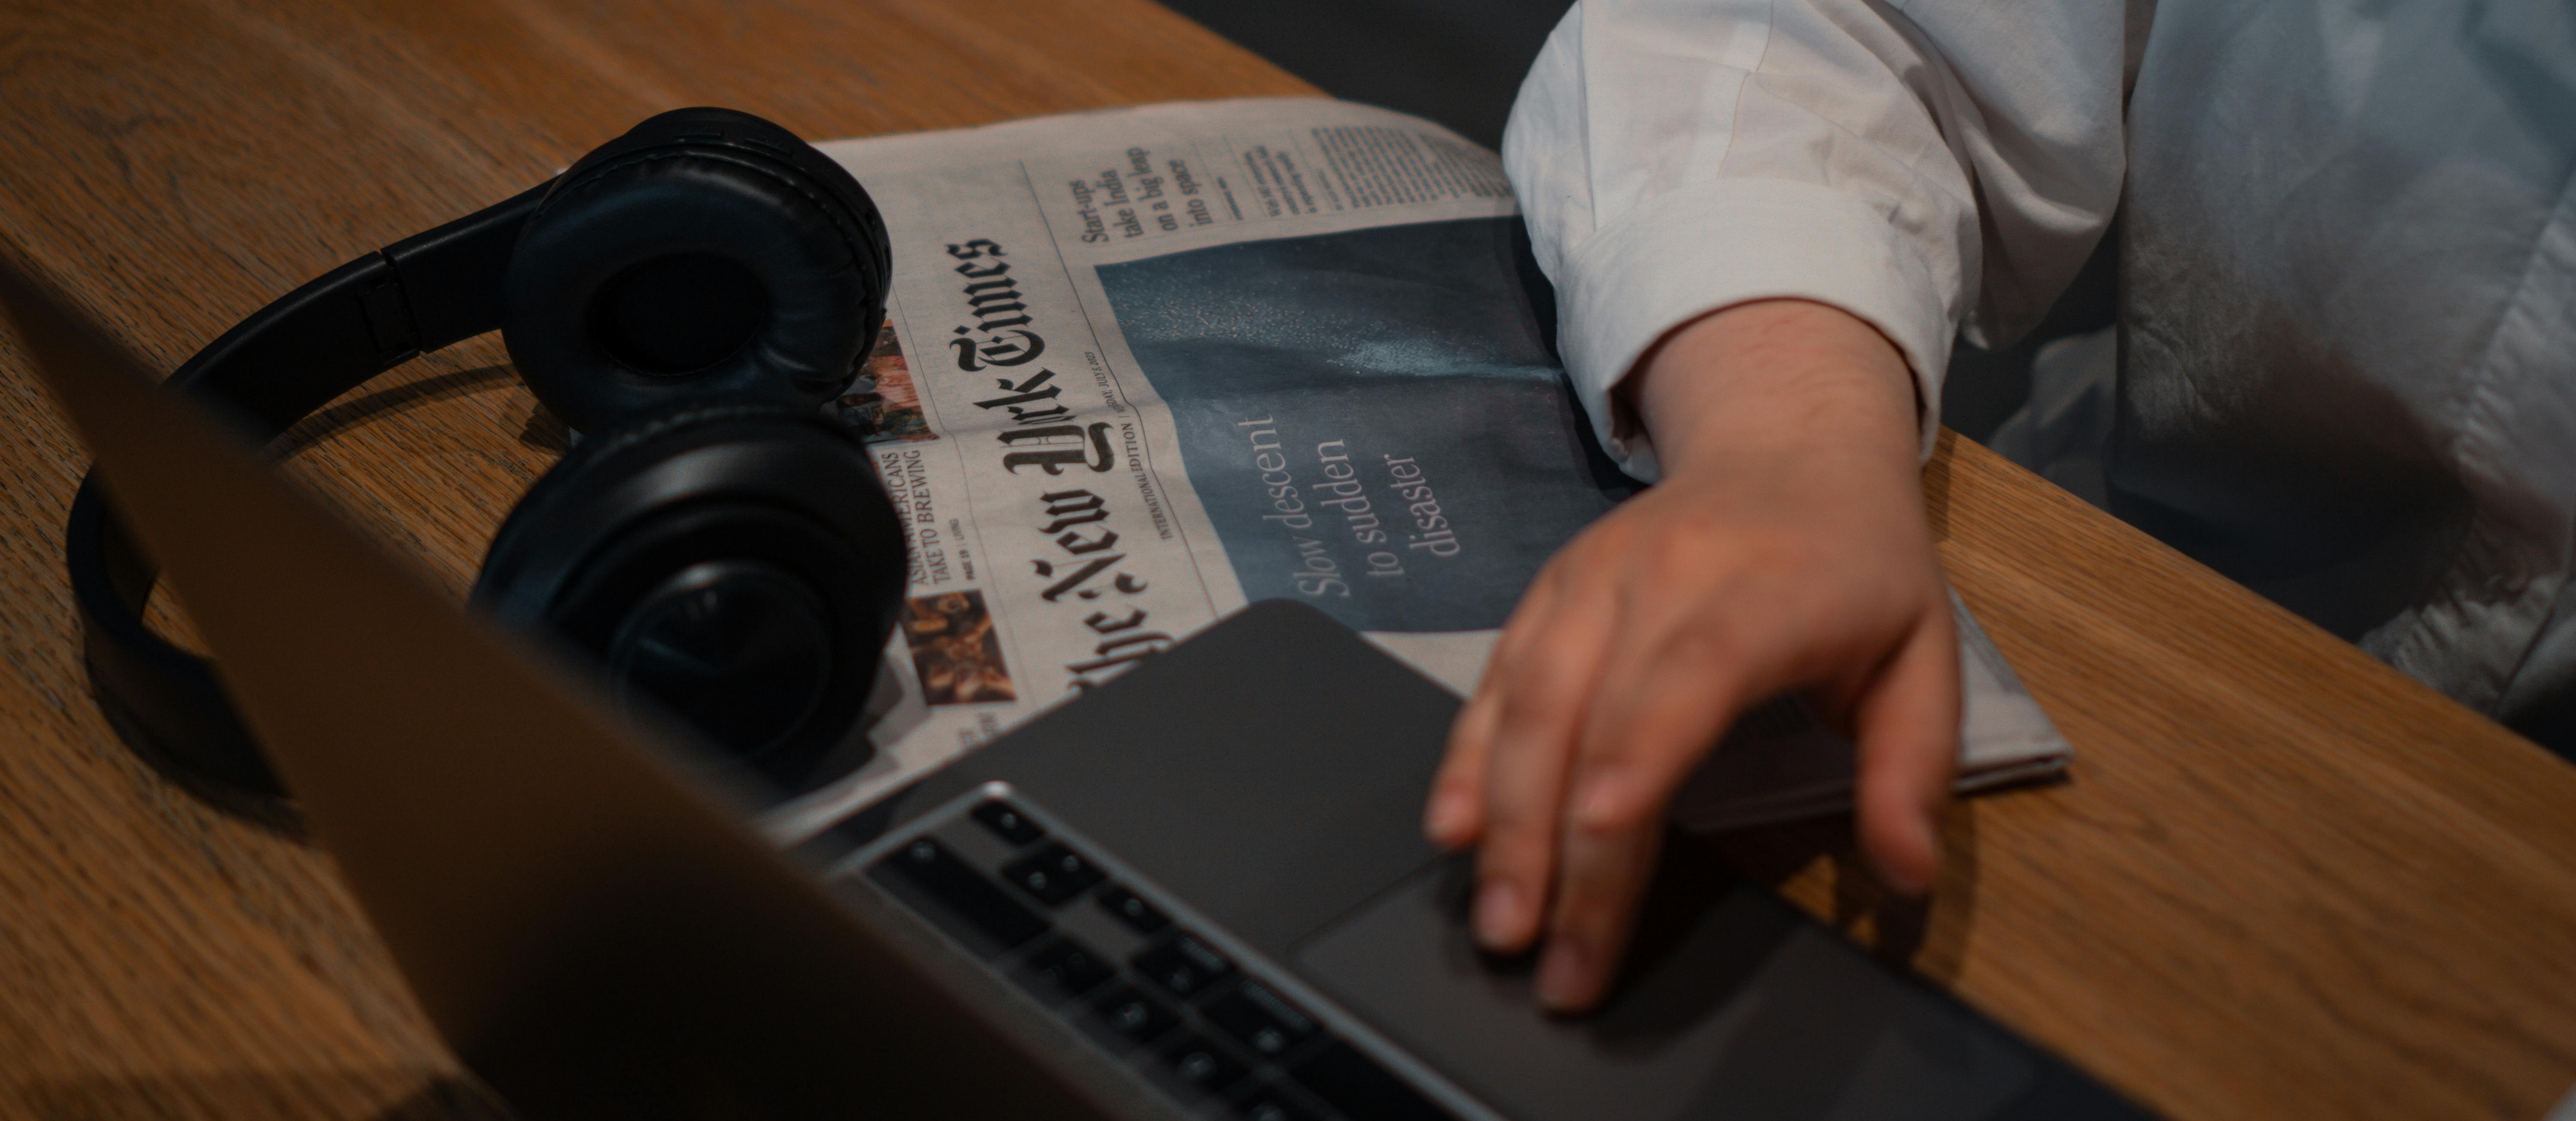
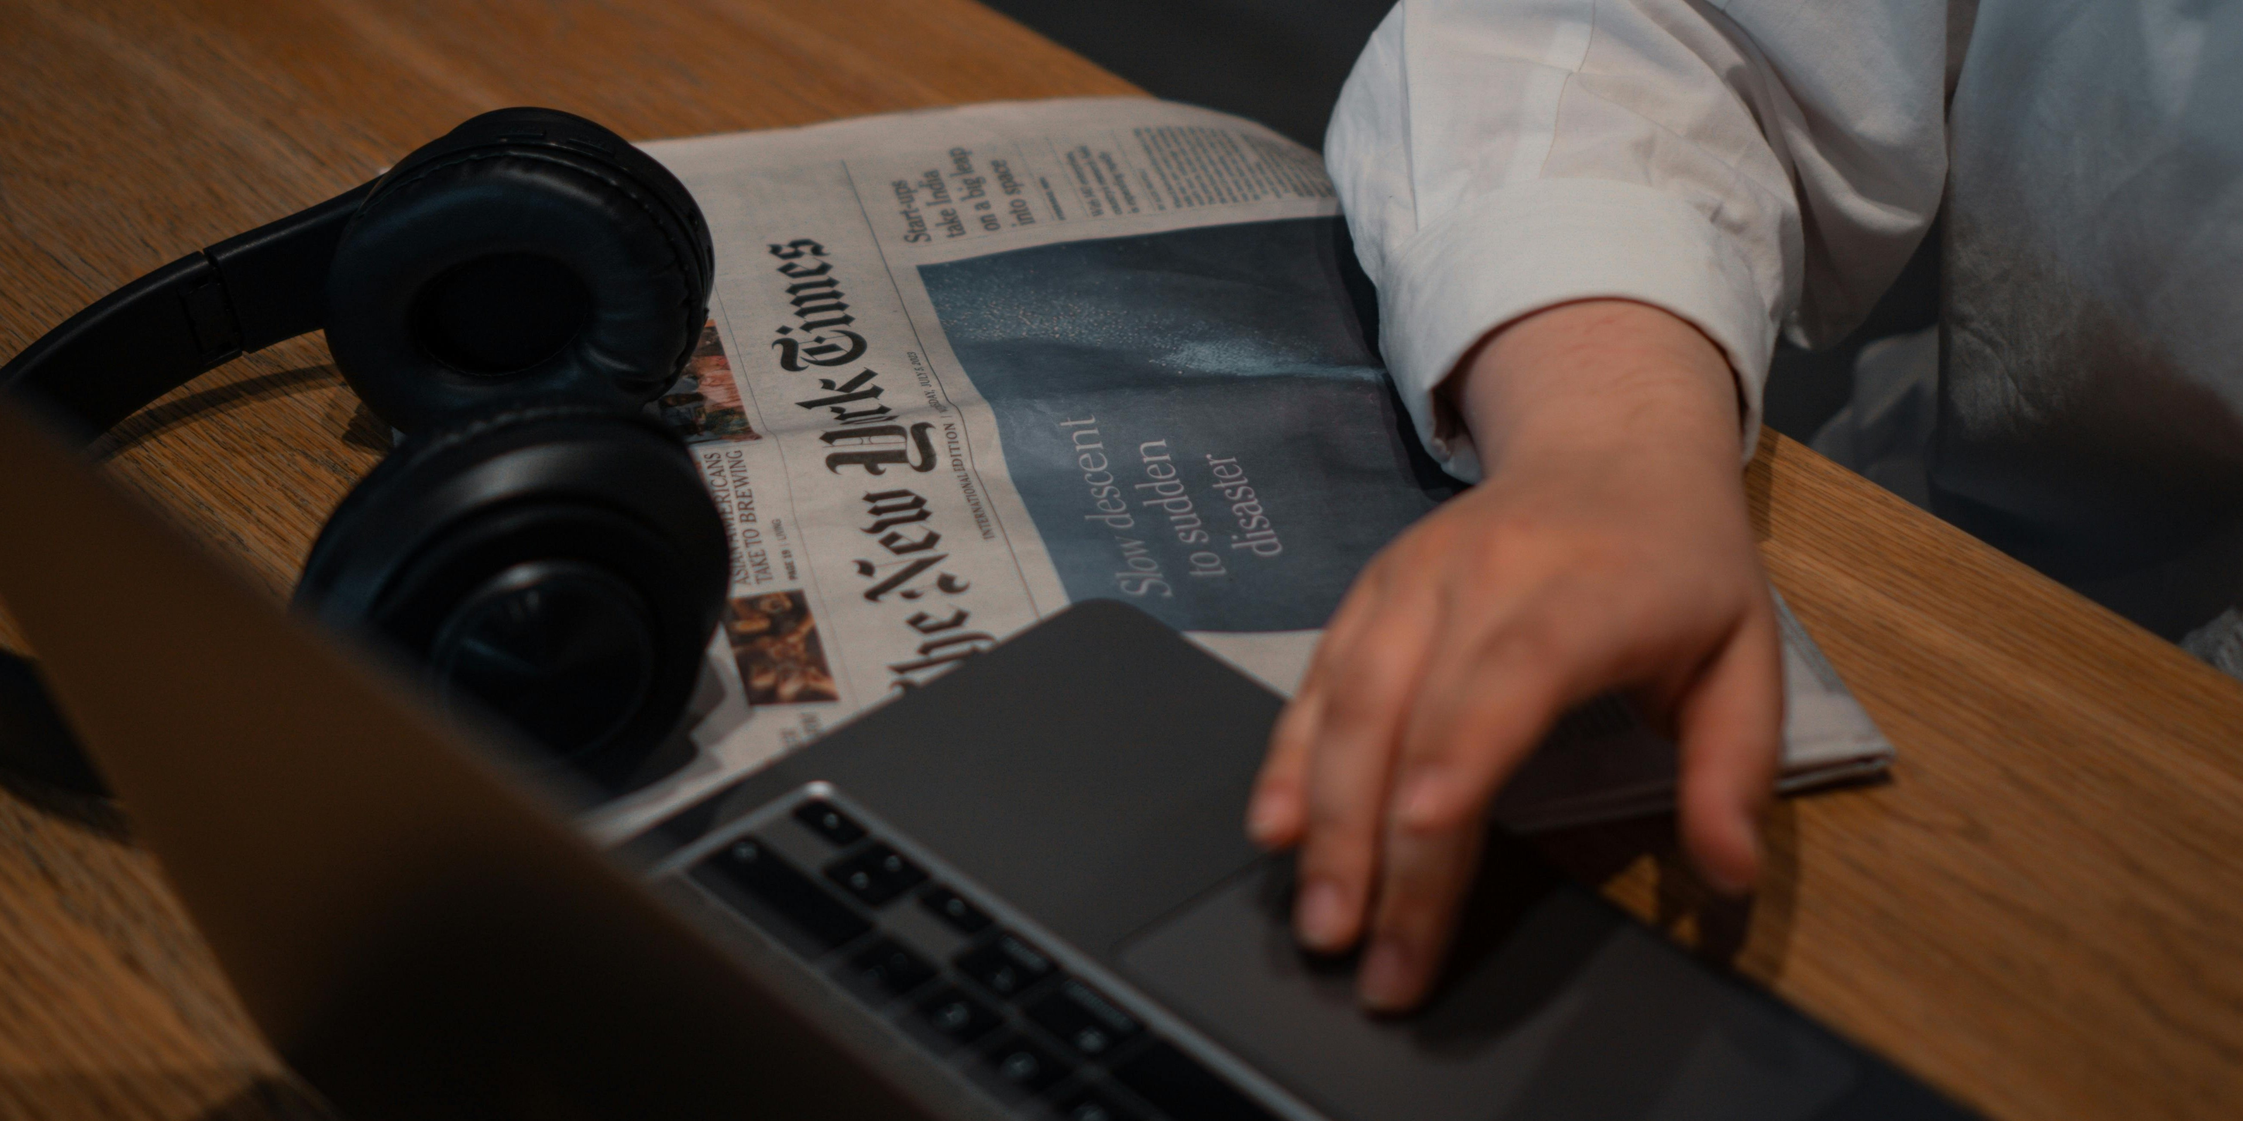
Update the sizing for the default post thumbnail and change the sizing for the image in the article cards to fit their aspect ratio

diff --git a/themes/libraryproject/template-parts/content-archive.php b/themes/libraryproject/template-parts/content-archive.php
@@ -4,9 +4,9 @@
     <div class="card-header">
 
         <?php if ( has_post_thumbnail() ): ?>
-            <img src="<?php the_post_thumbnail_url('thumbnail'); ?>" class="card-img-top mb-2 mt-2" alt="Blog Post Thumbnail" height="250" width="auto">
+            <img src="<?php the_post_thumbnail_url('thumbnail'); ?>" class="card-img-top mb-2 mt-2" alt="Blog Post Thumbnail" height="300" width="auto">
         <?php else: ?>
-            <img src="<?php echo get_template_directory_uri() . '/assets/images/default-post-thumbnail.jpg'; ?>" class="card-img-top mb-2 mt-2" alt="Blog Post Thumbnail" height="250" width="auto">
+            <img src="<?php echo get_template_directory_uri() . '/assets/images/default-post-thumbnail.jpg'; ?>" class="card-img-top mb-2 mt-2" alt="Blog Post Thumbnail" height="300" width="auto">
         <?php endif; ?>
 
         <a href="<?php the_permalink(); ?>" class="text-reset text-decoration-none">
